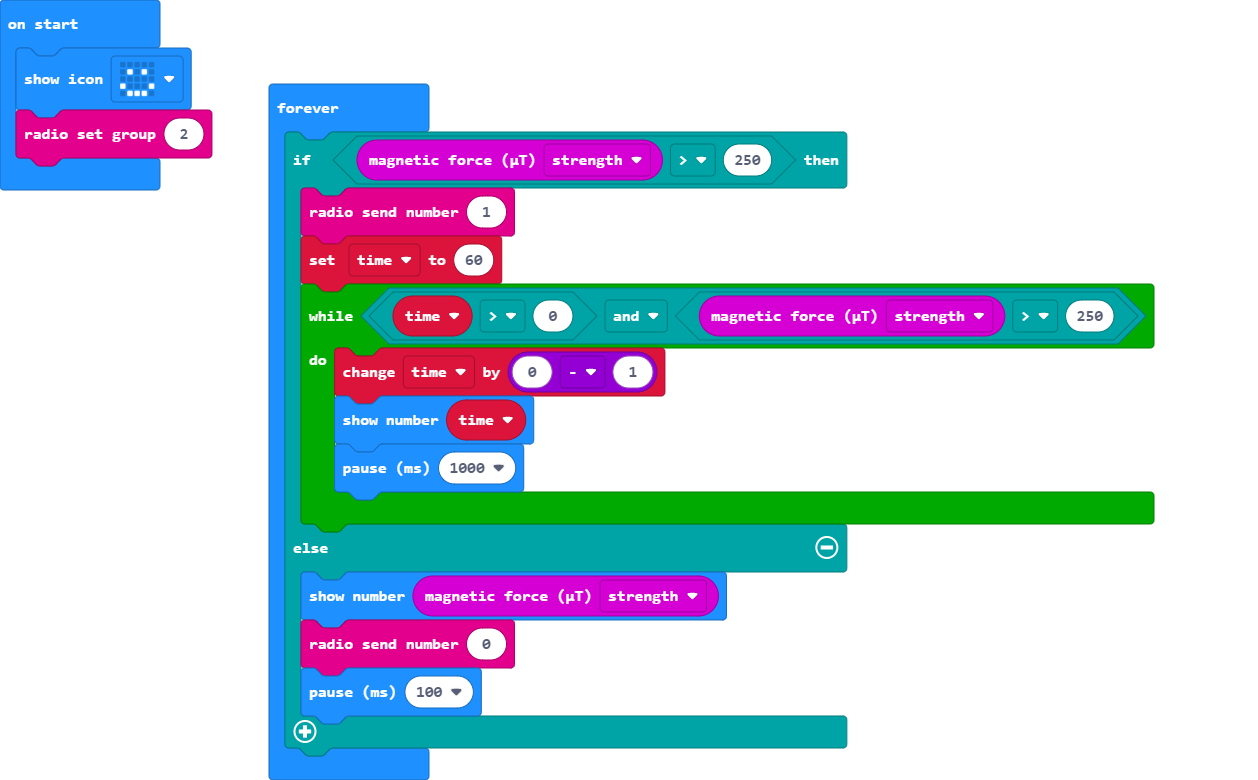
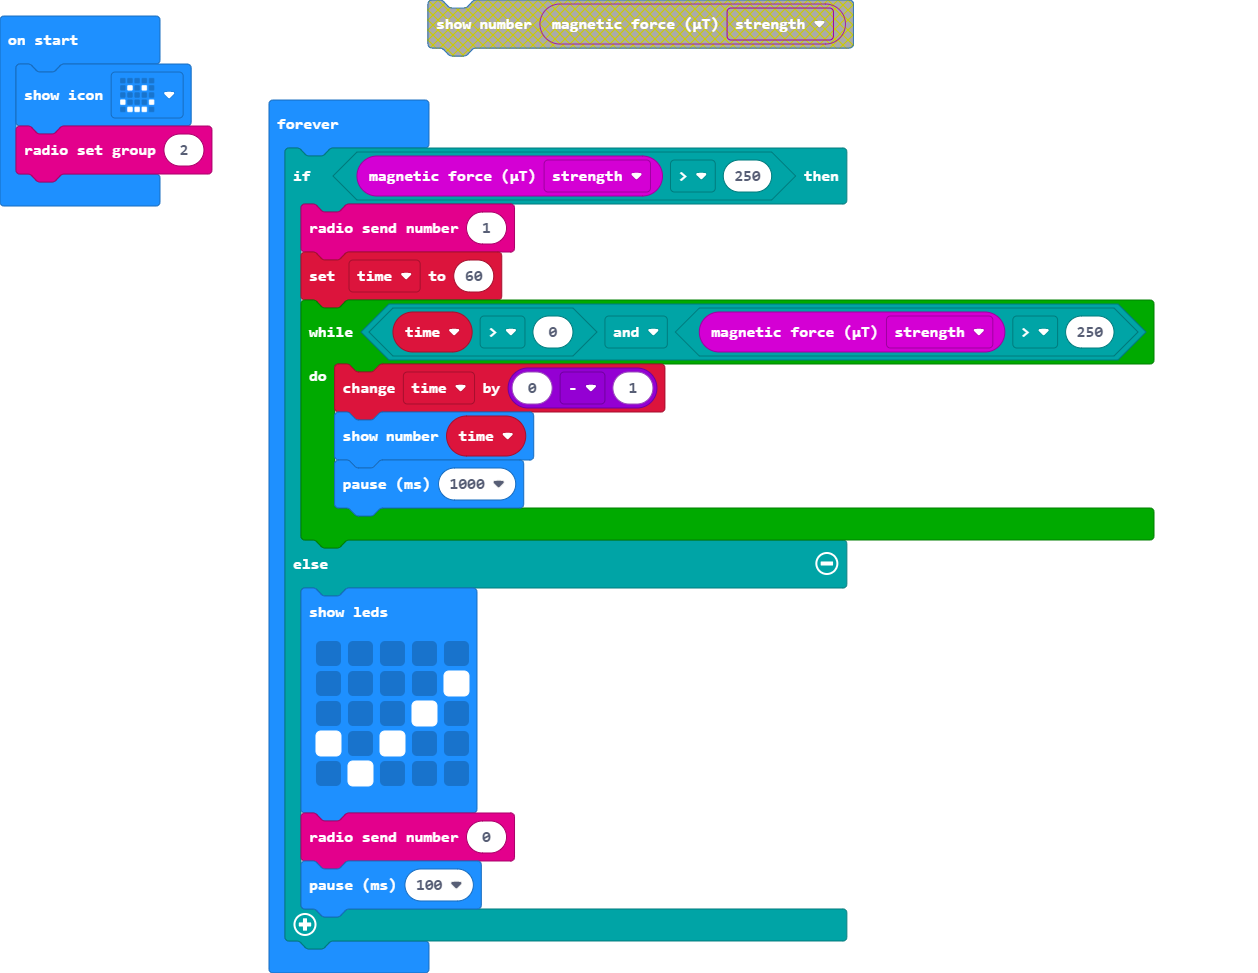
Update main.blocks, main.ts

diff --git a/main.ts b/main.ts
@@ -11,7 +11,13 @@ basic.forever(function () {
             basic.pause(1000)
         }
     } else {
-        basic.showNumber(input.magneticForce(Dimension.Strength))
+        basic.showLeds(`
+            . . . . .
+            . . . . #
+            . . . # .
+            # . # . .
+            . # . . .
+            `)
         radio.sendNumber(0)
         basic.pause(100)
     }
